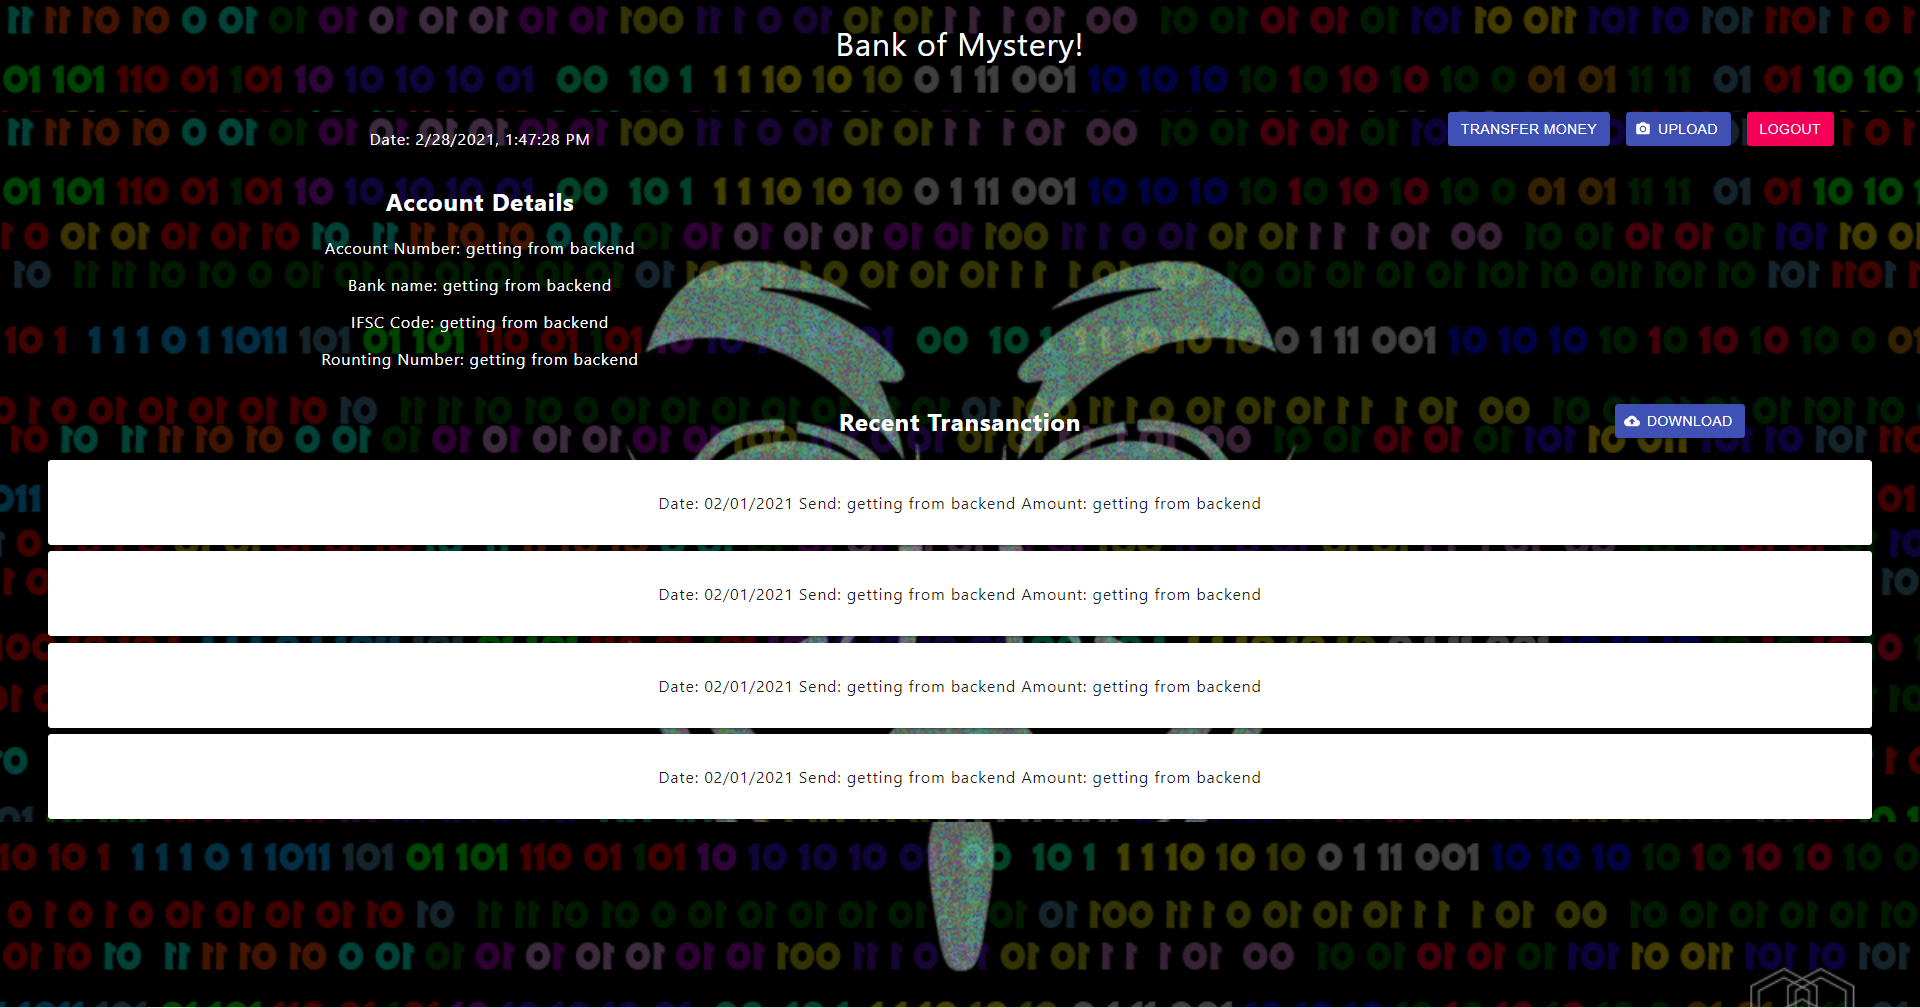
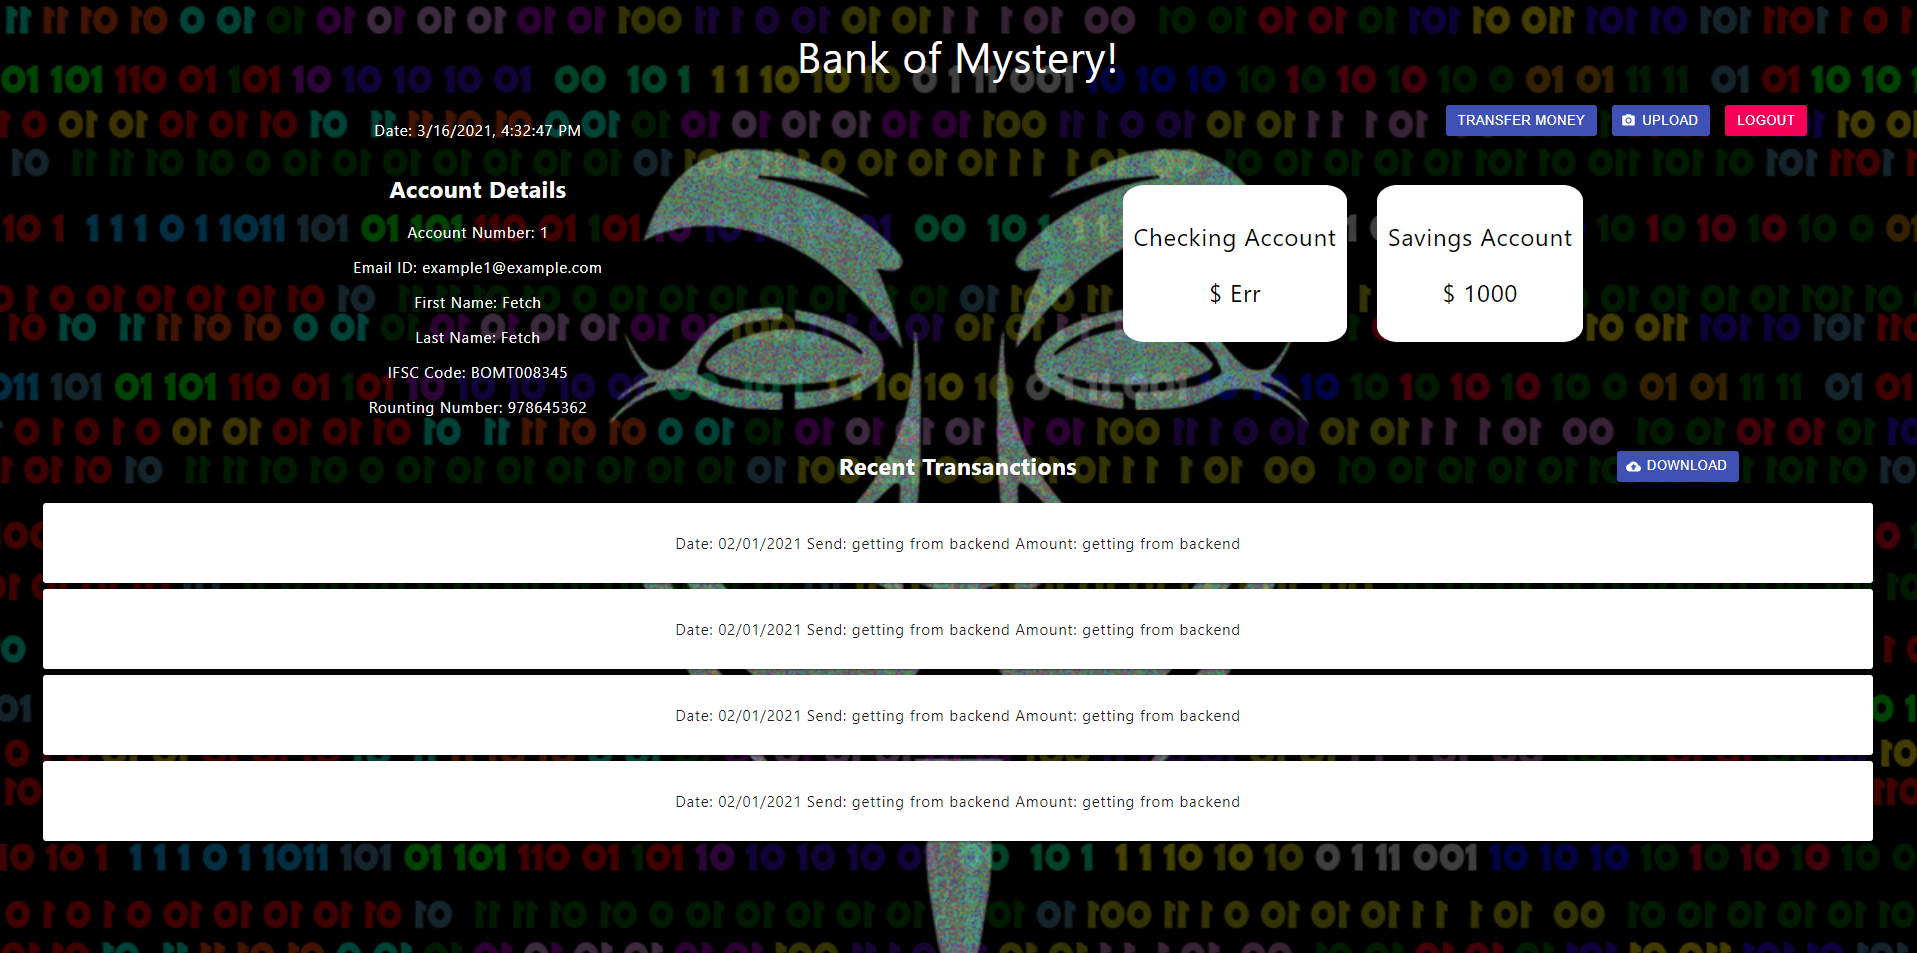
Transaction page + BalanceAPI + SS for .md

diff --git a/pages/transaction.js b/pages/transaction.js
@@ -1,0 +1,180 @@
+import React from 'react';
+import Paper from '@material-ui/core/Paper';
+import Grid from '@material-ui/core/Grid';
+import Button from "@material-ui/core/Button";
+import styles from "../styles/Trans.module.css"
+import Link from "next/link"
+import PhotoCamera from '@material-ui/icons/PhotoCamera';
+import CloudUploadIcon from '@material-ui/icons/CloudUpload';
+import { Form } from 'react-bootstrap';
+import {
+    absoluteUrl,
+    getAppCookies,
+    verifyToken,
+    setLogout,
+} from '../components/utils';
+
+export default function Transactions(props) {
+    const { baseApiUrl, profile } = props;
+
+    function onLogout(e) {
+        setLogout(e)
+    }
+
+    return (
+        <>
+            {!profile ?
+                <>
+                    <h1>Please Login</h1>
+                </>
+                :
+                <div className={styles.transBody}>
+                    <Grid container>
+                        <Grid item xs={6}>
+                            <div className={styles.transferForm}>
+                                <h1 className={styles.cardTitle}>Make a Transfer</h1>
+                                <Form method="POST">
+                                    <Form.Group controlId="email" className={styles.columnAlign}>
+                                        <Form.Label>Choose which account to send from?</Form.Label>
+                                        <Form.Control
+                                            type="text"
+                                            name="account_to"
+                                            placeholder="Checking Account"
+                                            disabled={true}
+                                            className={styles.textField}
+                                        />
+                                    </Form.Group>
+                                    <Form.Group controlId="email" className={styles.columnAlign}>
+                                        <Form.Label>Who do you want to send it to?</Form.Label>
+                                        <Form.Control
+                                            type="text"
+                                            name="account_to"
+                                            placeholder="Account number"
+                                            className={styles.textField}
+                                        />
+                                    </Form.Group>
+                                    <Form.Group controlId="email" className={styles.columnAlign}>
+                                        <Form.Control
+                                            type="text"
+                                            name="account_to"
+                                            placeholder="ABA number"
+                                            className={styles.textField}
+                                        />
+                                    </Form.Group>
+                                    <Form.Group controlId="email" className={styles.columnAlign}>
+                                        <Form.Label>Amount</Form.Label>
+                                        <Form.Control
+                                            type="text"
+                                            name="account_to"
+                                            placeholder="Enter amount in $"
+                                            className={styles.textField}
+                                        />
+                                    </Form.Group>
+                                    <Form.Group controlId="password" className={styles.columnAlign}>
+                                        <Form.Label>Password</Form.Label>
+                                        <Form.Control
+                                            type="password"
+                                            name="password"
+                                            placeholder="Enter password"
+                                            className={styles.textField}
+                                        />
+                                    </Form.Group>
+                                    <div className={styles.actionItems}>
+                                        <Button variant="contained" color="primary" type="submit">
+                                            Send Money
+                                        </Button>
+                                    </div>
+                                </Form>
+                            </div>
+                        </Grid>
+                        <Grid item xs={6}>
+                            <div className={styles.transferForm}>
+                                <h1 className={styles.cardTitle}>Deposit Checks</h1>
+                                <p>Note: Check deposits take 2-3 business days to be processed</p>
+                                <Form method="POST">
+                                    <Form.Group controlId="email" className={styles.columnAlign}>
+                                        <Form.Label>Who do you want to send it to?</Form.Label>
+                                        <Form.Control
+                                            type="text"
+                                            name="account_to"
+                                            placeholder="Account number"
+                                            className={styles.textField}
+                                        />
+                                    </Form.Group>
+                                    <Form.Group controlId="email" className={styles.columnAlign}>
+                                        <Form.Control
+                                            type="text"
+                                            name="account_to"
+                                            placeholder="ABA number"
+                                            className={styles.textField}
+                                        />
+                                    </Form.Group>
+                                    <Form.Group controlId="email" className={styles.columnAlign}>
+                                        <Form.Label>Amount</Form.Label>
+                                        <Form.Control
+                                            type="text"
+                                            name="account_to"
+                                            placeholder="Enter amount in $"
+                                            className={styles.textField}
+                                        />
+                                    </Form.Group>
+                                    <Form.Group controlId="password" className={styles.columnAlign}>
+                                        <Form.Label>Password</Form.Label>
+                                        <Form.Control
+                                            type="password"
+                                            name="password"
+                                            placeholder="Enter password"
+                                            className={styles.textField}
+                                        />
+                                    </Form.Group>
+                                    <p> Check Image:
+                                        <Button variant="contained" component="label">
+                                            Upload Picture
+                                            <input type="file" hidden />
+                                        </Button>
+                                    </p>
+                                    <div className={styles.actionItems}>
+                                        <Button variant="contained" color="primary" type="submit">
+                                            Deposit Check
+                                        </Button>
+                                    </div>
+                                </Form>
+                            </div>
+                        </Grid>
+                        <Grid item xs={12}>
+                            <div className={styles.TtoPButtons}>
+                            <Link href="/profile" className="btn btn-secondary">
+                                <Button variant="contained" color="primary">
+                                    Return to Profile
+                                </Button>
+                            </Link>
+                            <Link href="/profile" className="btn btn-secondary">
+                                <Button variant="contained" color="secondary" onClick={onLogout}>
+                                    Log Out
+                                </Button>
+                            </Link>
+                            </div>
+                        </Grid>
+                    </Grid>
+                </div>
+            }
+        </>
+    )
+
+}
+
+export async function getServerSideProps(context) {
+    const { req } = context;
+    const { origin } = absoluteUrl(req);
+
+    const baseApiUrl = `${origin}/api`;
+
+    const { token } = getAppCookies(req);
+    const profile = token ? verifyToken(token.split(' ')[1]) : '';
+    return {
+        props: {
+            baseApiUrl,
+            profile,
+        },
+    };
+}

diff --git a/pages/profile.js b/pages/profile.js
@@ -6,6 +6,8 @@ import styles from "../styles/Profile.module.css"
 import Link from "next/link"
 import PhotoCamera from '@material-ui/icons/PhotoCamera';
 import CloudUploadIcon from '@material-ui/icons/CloudUpload';
+import { useState } from 'react';
+
 import {
     absoluteUrl,
     getAppCookies,
@@ -15,10 +17,32 @@ import {
 
 export default function Profile(props) {
     const { baseApiUrl, profile } = props;
+    const [balance, setBalance] = useState('')
 
-    function onLogout(e){
+    function onLogout(e) {
         setLogout(e)
-      }
+    }
+
+    async function getBalance() {
+        let data = profile.id
+        const balanceAPI = await fetch(`http://localhost:5001/balance/123456781`, {
+            method: 'GET',
+            headers: {
+                Accept: 'application/json',
+                'Content-Type': 'application/json',
+            },
+        }).catch(error => {
+            console.error('Error:', error);
+        });
+        const result = await balanceAPI.json();
+        if (!result) {
+            window.alert("Error while retrieving balance information");
+        }
+        setBalance(result[0])
+        return result[0]
+    }
+
+    const res = getBalance()
 
     return (
         <>
@@ -36,12 +60,14 @@ export default function Profile(props) {
                         <Grid item xs={3}></Grid>
                         <div className={styles.gridBtn}>
                             <Grid item xs={1.5}>
-                                <Button
-                                    variant="contained"
-                                    color="primary"
-                                >
-                                    Transfer Money
-                                </Button>
+                                <Link href="/transaction">
+                                    <Button
+                                        variant="contained"
+                                        color="primary"
+                                    >
+                                        Transfer Money
+                                    </Button>
+                                </Link>
                             </Grid>
                         </div>
                         <div className={styles.gridBtn}>
@@ -68,12 +94,24 @@ export default function Profile(props) {
                             <h2 align="center">Account Details</h2>
                             <p align="center"> Account Number: {profile.id}</p>
                             <p align="center"> Email ID: {profile.email}</p>
-                            <p align="center"> Bank name: getting from backend </p>
-                            <p align="center"> IFSC Code: getting from backend </p>
-                            <p align="center"> Rounting Number: getting from backend  </p>
+                            <p align="center"> First Name: Fetch </p>
+                            <p align="center"> Last Name: Fetch </p>
+                            <p align="center"> IFSC Code: BOMT008345 </p>
+                            <p align="center"> Rounting Number: 978645362  </p>
 
                         </Grid>
-                        <Grid item xs={6}></Grid>
+                        <Grid item xs={6}>
+                            <div className={styles.balanceContainer}>
+                                <div className={styles.balance}>
+                                    <p>Checking Account</p>
+                                    <p>$ {balance ? balance : "Err"}</p>
+                                </div>
+                                <div className={styles.balance}>
+                                    <p>Savings Account</p>
+                                    <p>$ 1000</p>
+                                </div>
+                            </div>
+                        </Grid>
 
                         <Grid item xs={3} />
                         <Grid item xs={6}>

diff --git a/styles/Trans.module.css b/styles/Trans.module.css
@@ -1,0 +1,57 @@
+.transBody {
+    padding-top: 10rem;
+    color: white;
+    flex-grow: 1;
+}
+
+.transferBody {
+    margin: 0.2rem 3rem;
+    text-align: center;
+    padding: 1rem;
+}
+
+.heading {
+    text-align: center;
+}
+
+.columnAlign {
+    display: flex;
+    flex-direction: column;
+    margin-bottom: 0.3rem;
+}
+
+.textField {
+    height: 1.5rem;
+    font-size: 18px;
+    padding: 20px 10px;
+}
+
+.actionItems {
+    display: flex;
+    justify-content: space-between;
+    margin-top: 1rem;
+}
+
+.transferForm {
+    width: 70%;
+    margin: auto;
+    text-align: left;
+    font-size: larger;
+}
+
+.checkButton {
+    margin-left: 2rem;
+}
+
+.TtoPButtons {
+    margin-top: 5rem;
+    text-align: center;
+}
+
+.leftmargin {
+    margin-left: 2rem;
+}
+
+.cardTitle {
+    font-weight: 400;
+}

diff --git a/styles/Profile.module.css b/styles/Profile.module.css
@@ -1,5 +1,5 @@
 .profileBody {
-    margin-top: 7rem;
+    padding-top: 7rem;
     color: white;
     flex-grow: 1;
 }
@@ -29,4 +29,22 @@
 .red {
     background-color: red;
     color: white;
+}
+
+.balanceContainer {
+    align-self: center;
+    text-align: center;
+    display: flex;
+    flex-direction: row;
+    margin-left: 10rem;
+}
+
+.balance {
+    margin: 2rem 1rem;
+    box-sizing: border-box;
+    border-radius: 10%;
+    background-color: white;
+    color: black;
+    font-size: xx-large;
+    padding: 0.7rem 0.7rem;
 }

diff --git a/styles/Home.module.css b/styles/Home.module.css
@@ -122,7 +122,7 @@
 }
 
 .bankName {
-  font-size: 40px;
+  font-size: 56px;
   font-weight: 400;
   cursor: pointer;
 }

diff --git a/README.md b/README.md
@@ -19,3 +19,7 @@
 ## Profile Page
 
 ![Profile Page](./public/ProfilePage.png)
+
+## Transaction Page
+
+![Transaction Page](./public/TransactionPage.png)
